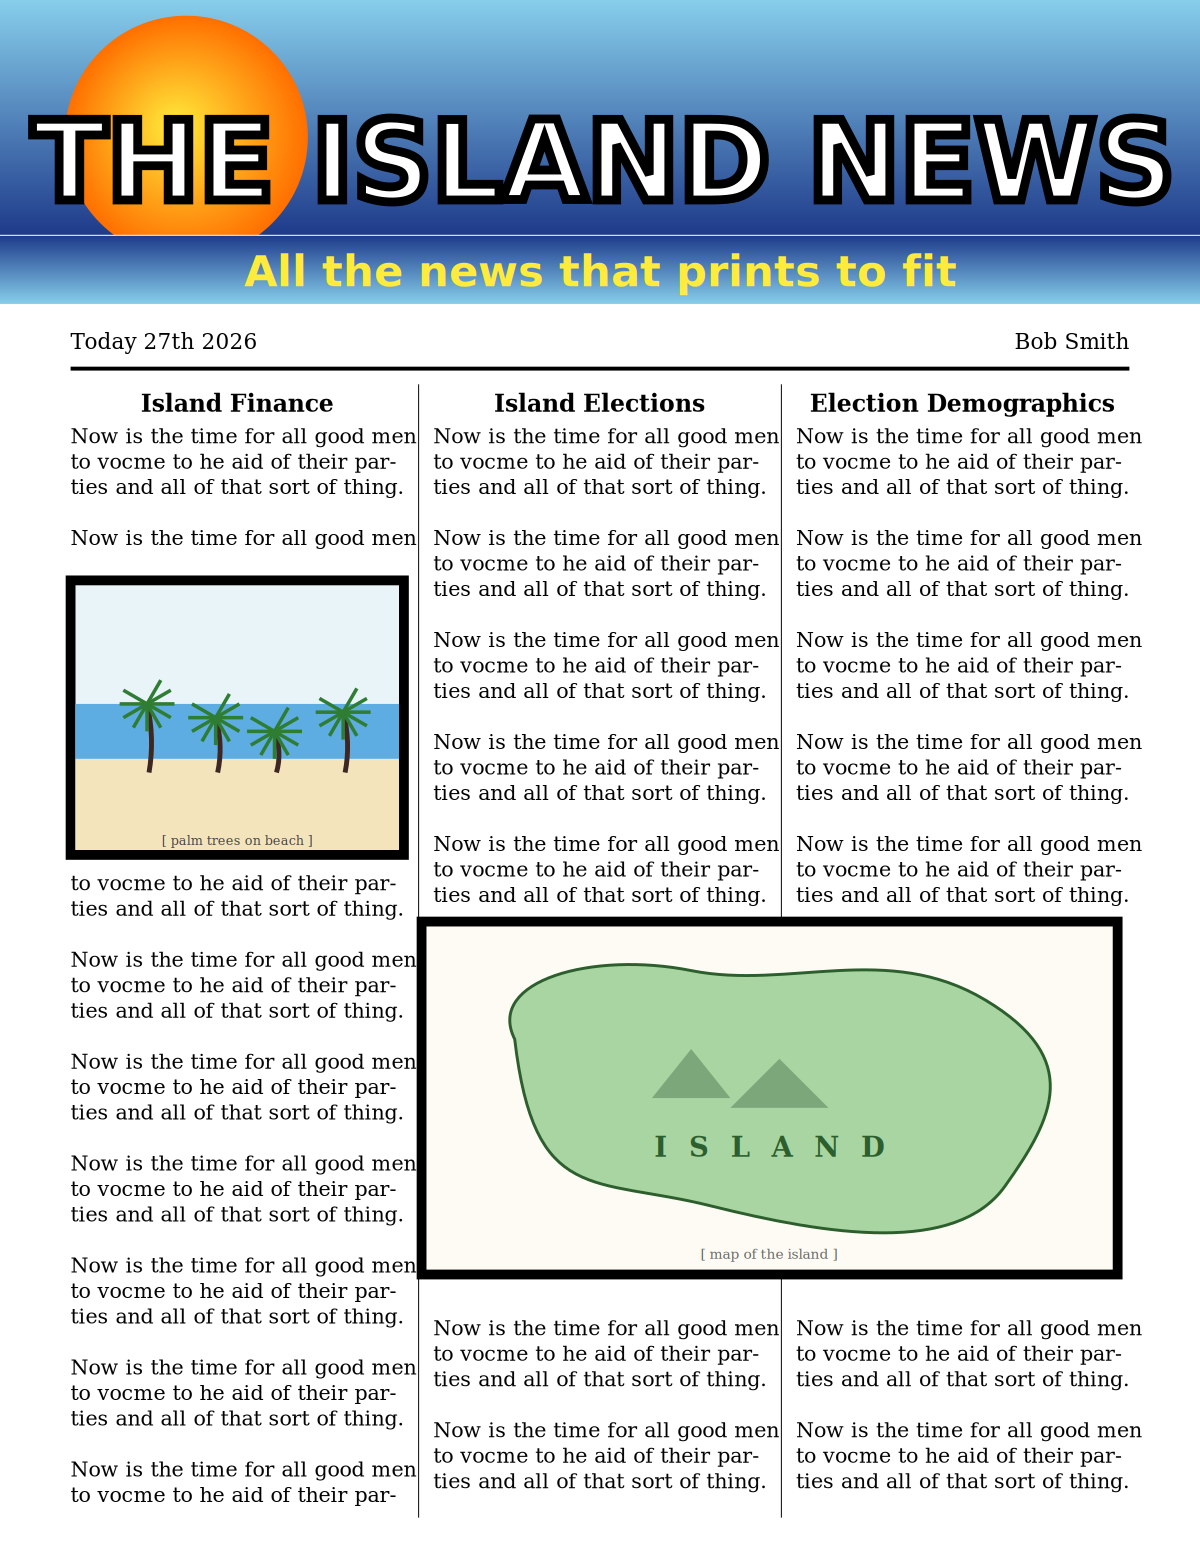
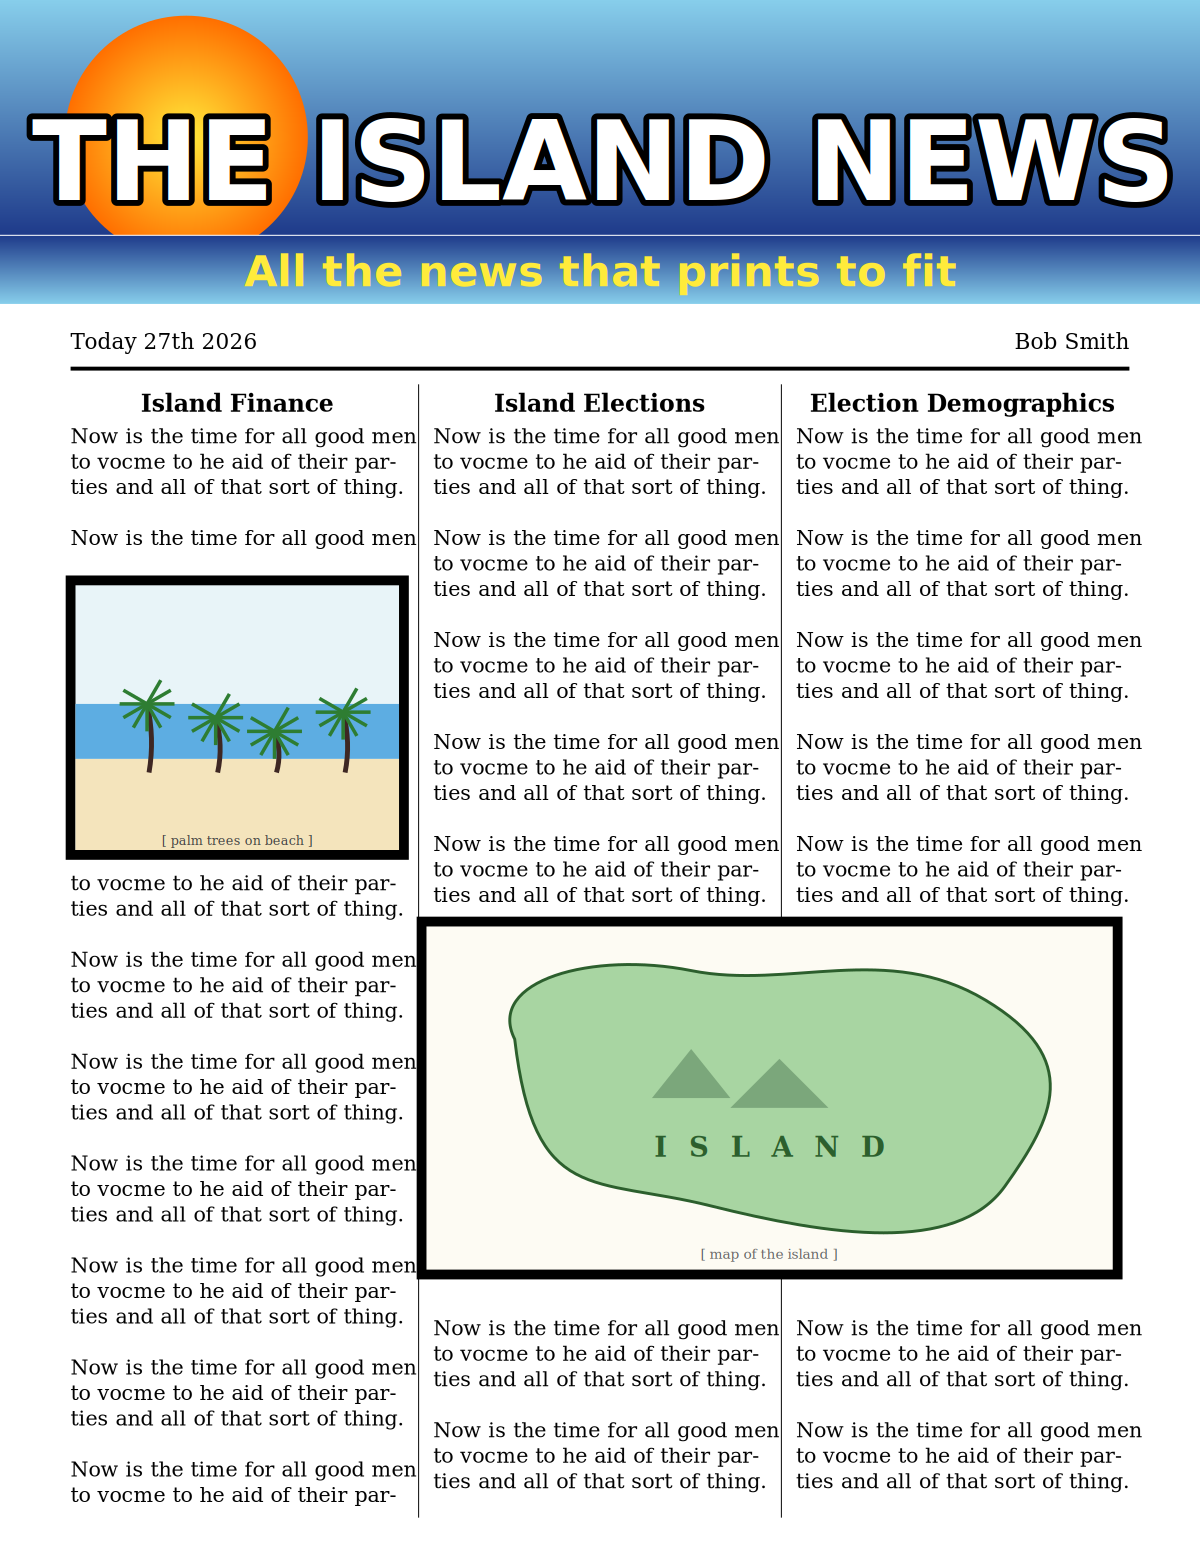
More Illustrator-safe SVG: stacked title, no paint-order, no clipPath
Remove additional attributes Illustrator 2023 may reject for [STEX]:
- paint-order on text -> stack a stroke-only and a fill-only text
- clipPath/clip-path -> remove (sun sized to fit inside masthead)
- font-weight=900 numeric -> font-weight=bold
- radialGradient fx/fy -> drop (only cx/cy/r)
- add explicit version and standalone=no on XML decl
- drop unit suffix on root width/height (viewBox carries units)

https://claude.ai/code/session_01HzoKMsRQP5jhRDNUUs2cjq

Changed region(s): [[0.0308, 0.0618, 0.6475, 0.1545], [0.6783, 0.0618, 0.9867, 0.1545]]

diff --git a/generate_island_news.py b/generate_island_news.py
@@ -152,8 +152,11 @@ def lines_that_fit(pool, y_top, y_bottom):
 
 def svg_header():
     return (
-        '<?xml version="1.0" encoding="UTF-8"?>\n'
-        f'<svg xmlns="http://www.w3.org/2000/svg" width="{W}pt" height="{H}pt" '
+        '<?xml version="1.0" encoding="UTF-8" standalone="no"?>\n'
+        f'<svg xmlns="http://www.w3.org/2000/svg" '
+        f'xmlns:xlink="http://www.w3.org/1999/xlink" '
+        f'version="1.1" '
+        f'width="{W}" height="{H}" '
         f'viewBox="0 0 {W} {H}">\n'
     )
 
@@ -168,32 +171,31 @@ def defs():
       <stop offset="0%" stop-color="#1E3A8A"/>
       <stop offset="100%" stop-color="#87CEEB"/>
     </linearGradient>
-    <radialGradient id="sunGradient" cx="50%" cy="50%" r="50%" fx="45%" fy="45%">
+    <radialGradient id="sunGradient" cx="50%" cy="50%" r="50%">
       <stop offset="0%" stop-color="#FFEB3B"/>
       <stop offset="100%" stop-color="#FF6F00"/>
     </radialGradient>
-    <clipPath id="mastheadClip">
-      <rect x="0" y="0" width="{W}" height="{MAST}"/>
-    </clipPath>
   </defs>
-""".replace("{W}", str(W)).replace("{MAST}", str(MAST_H))
+"""
 
 
 def masthead():
     return f"""  <!-- Masthead (sky + sun + water + horizon + title + subtitle) -->
-  <g clip-path="url(#mastheadClip)">
-    <rect x="0" y="0" width="{W}" height="{SKY_H}" fill="url(#skyGradient)"/>
-    <circle cx="{SUN_CX}" cy="{SUN_CY}" r="{SUN_R}" fill="url(#sunGradient)"/>
-    <rect x="0" y="{SKY_H}" width="{W}" height="{WATER_H}" fill="url(#waterGradient)"/>
-    <line x1="0" y1="{HORIZON_Y}" x2="{W}" y2="{HORIZON_Y}" stroke="white" stroke-width="0.5"/>
-    <text x="{W/2}" y="102" text-anchor="middle"
-          font-family="Impact" font-size="56" font-weight="900"
-          fill="white" stroke="black" stroke-width="4.5"
-          paint-order="stroke">THE ISLAND NEWS</text>
-    <text x="{W/2}" y="146" text-anchor="middle"
-          font-family="Arial Black" font-size="22" font-weight="900"
-          font-style="italic" fill="#FFEB3B">All the news that prints to fit</text>
-  </g>
+  <rect x="0" y="0" width="{W}" height="{SKY_H}" fill="url(#skyGradient)"/>
+  <circle cx="{SUN_CX}" cy="{SUN_CY}" r="{SUN_R}" fill="url(#sunGradient)"/>
+  <rect x="0" y="{SKY_H}" width="{W}" height="{WATER_H}" fill="url(#waterGradient)"/>
+  <line x1="0" y1="{HORIZON_Y}" x2="{W}" y2="{HORIZON_Y}" stroke="white" stroke-width="0.5"/>
+  <!-- Title: stroked text below, filled text on top (no paint-order) -->
+  <text x="{W/2}" y="102" text-anchor="middle"
+        font-family="Impact" font-size="56" font-weight="bold"
+        fill="none" stroke="black" stroke-width="6"
+        stroke-linejoin="round">THE ISLAND NEWS</text>
+  <text x="{W/2}" y="102" text-anchor="middle"
+        font-family="Impact" font-size="56" font-weight="bold"
+        fill="white">THE ISLAND NEWS</text>
+  <text x="{W/2}" y="146" text-anchor="middle"
+        font-family="Arial Black" font-size="22" font-weight="bold"
+        font-style="italic" fill="#FFEB3B">All the news that prints to fit</text>
 """
 
 
